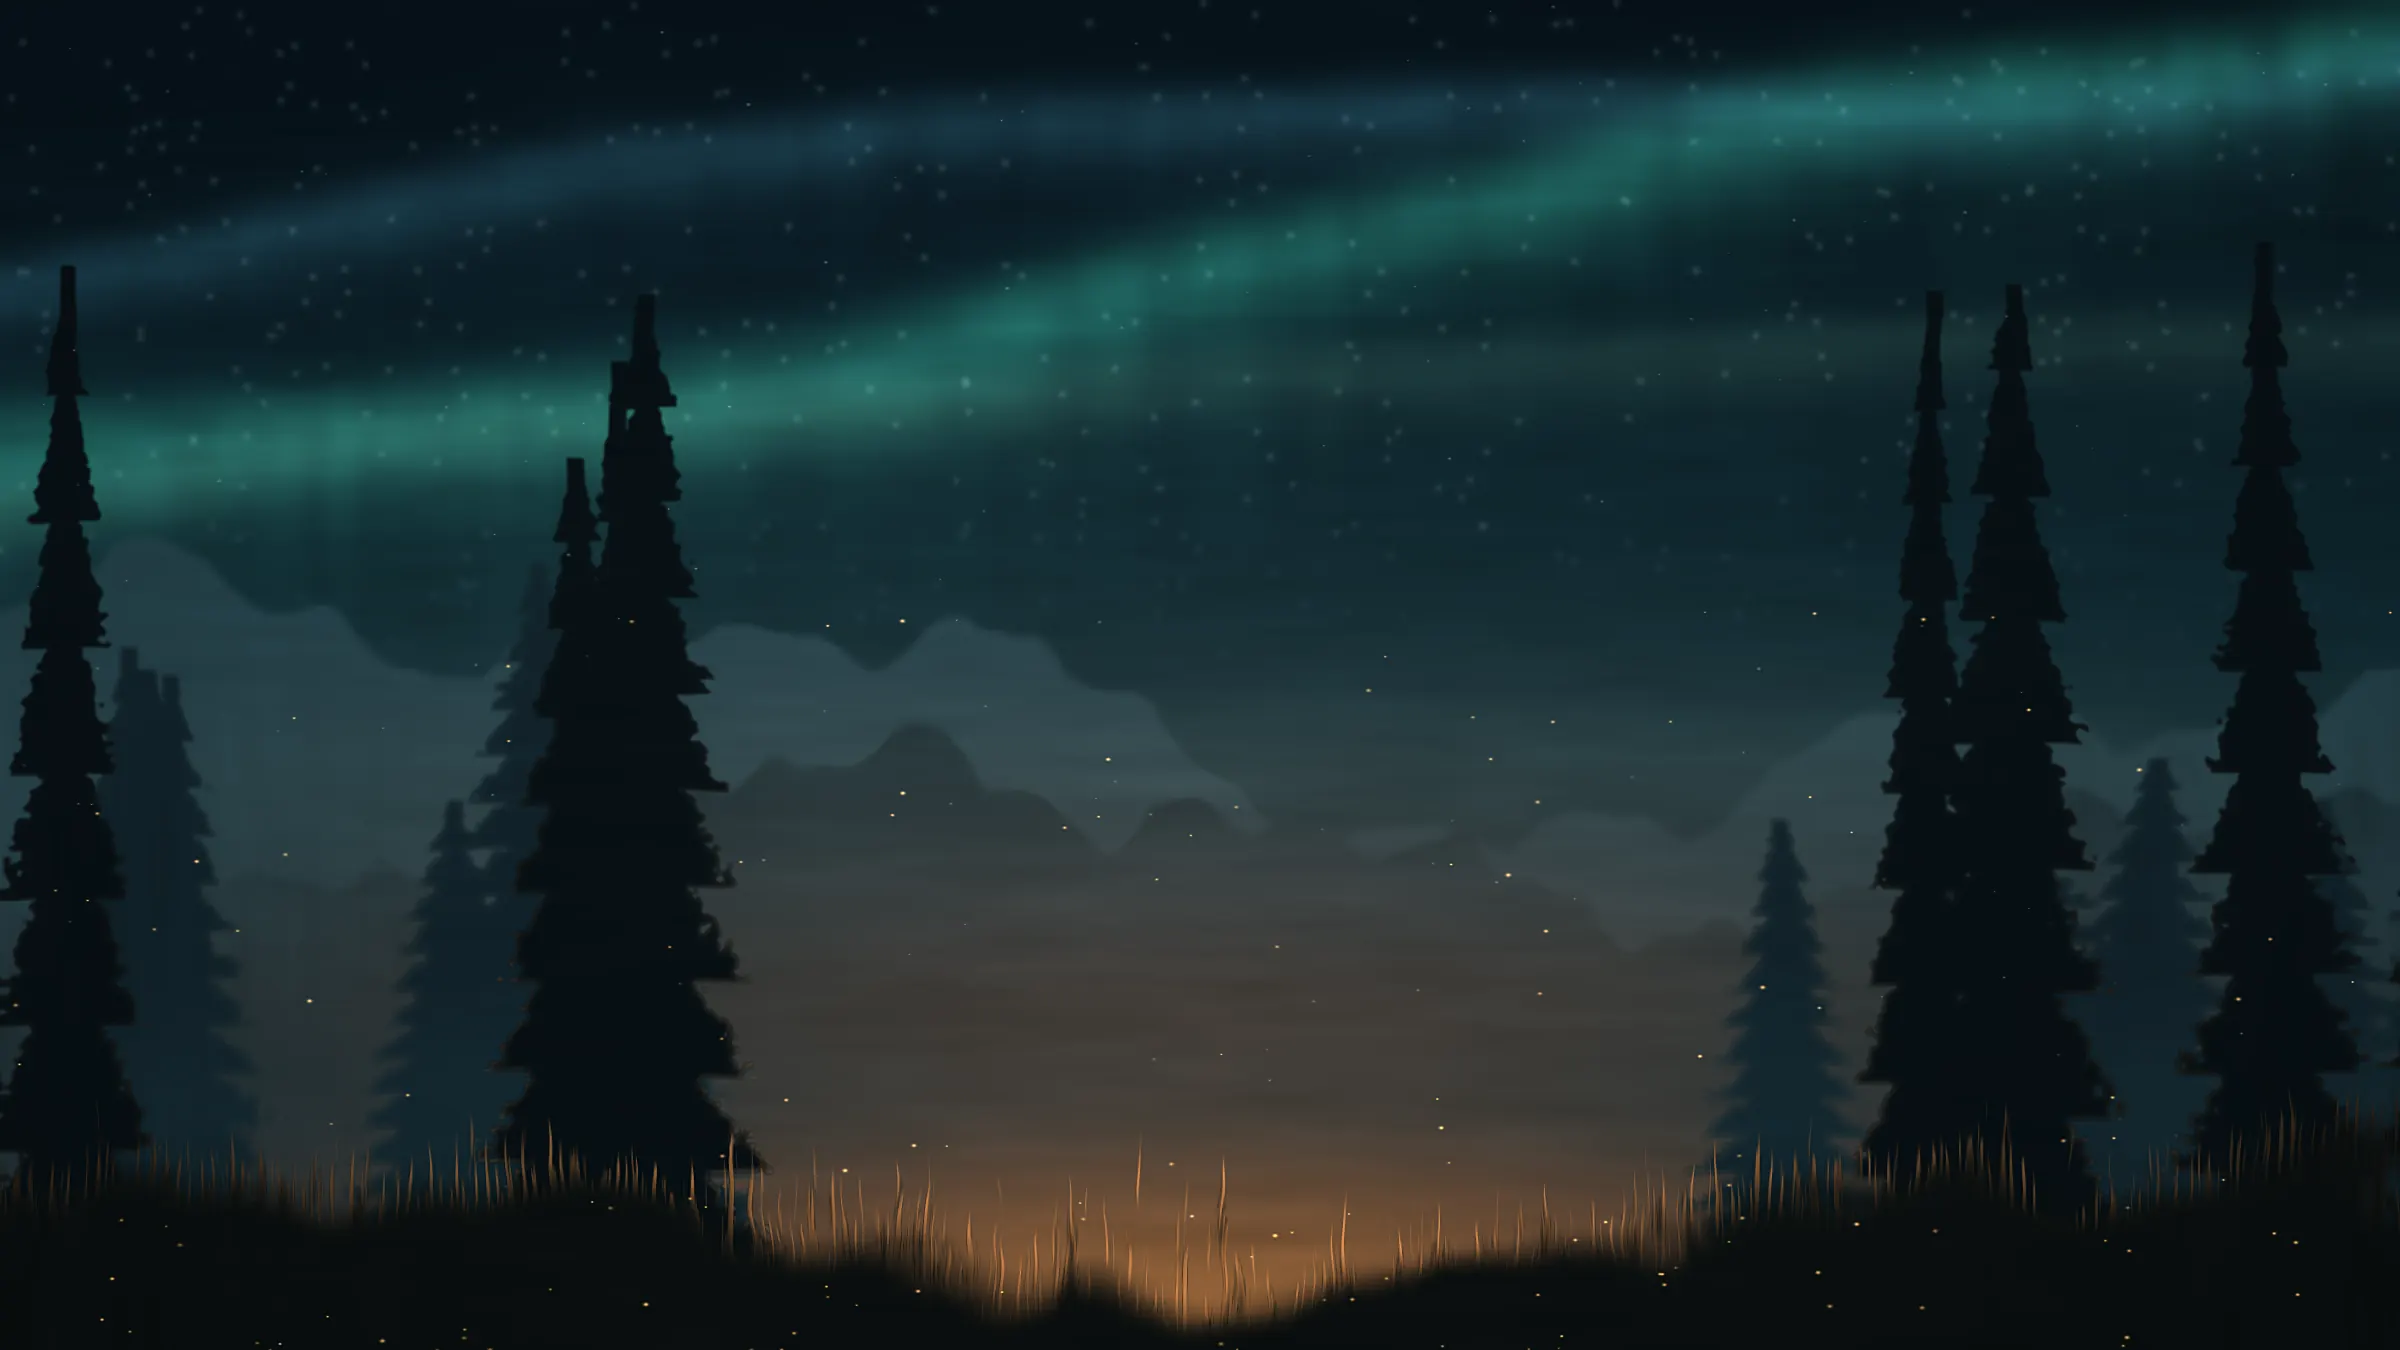
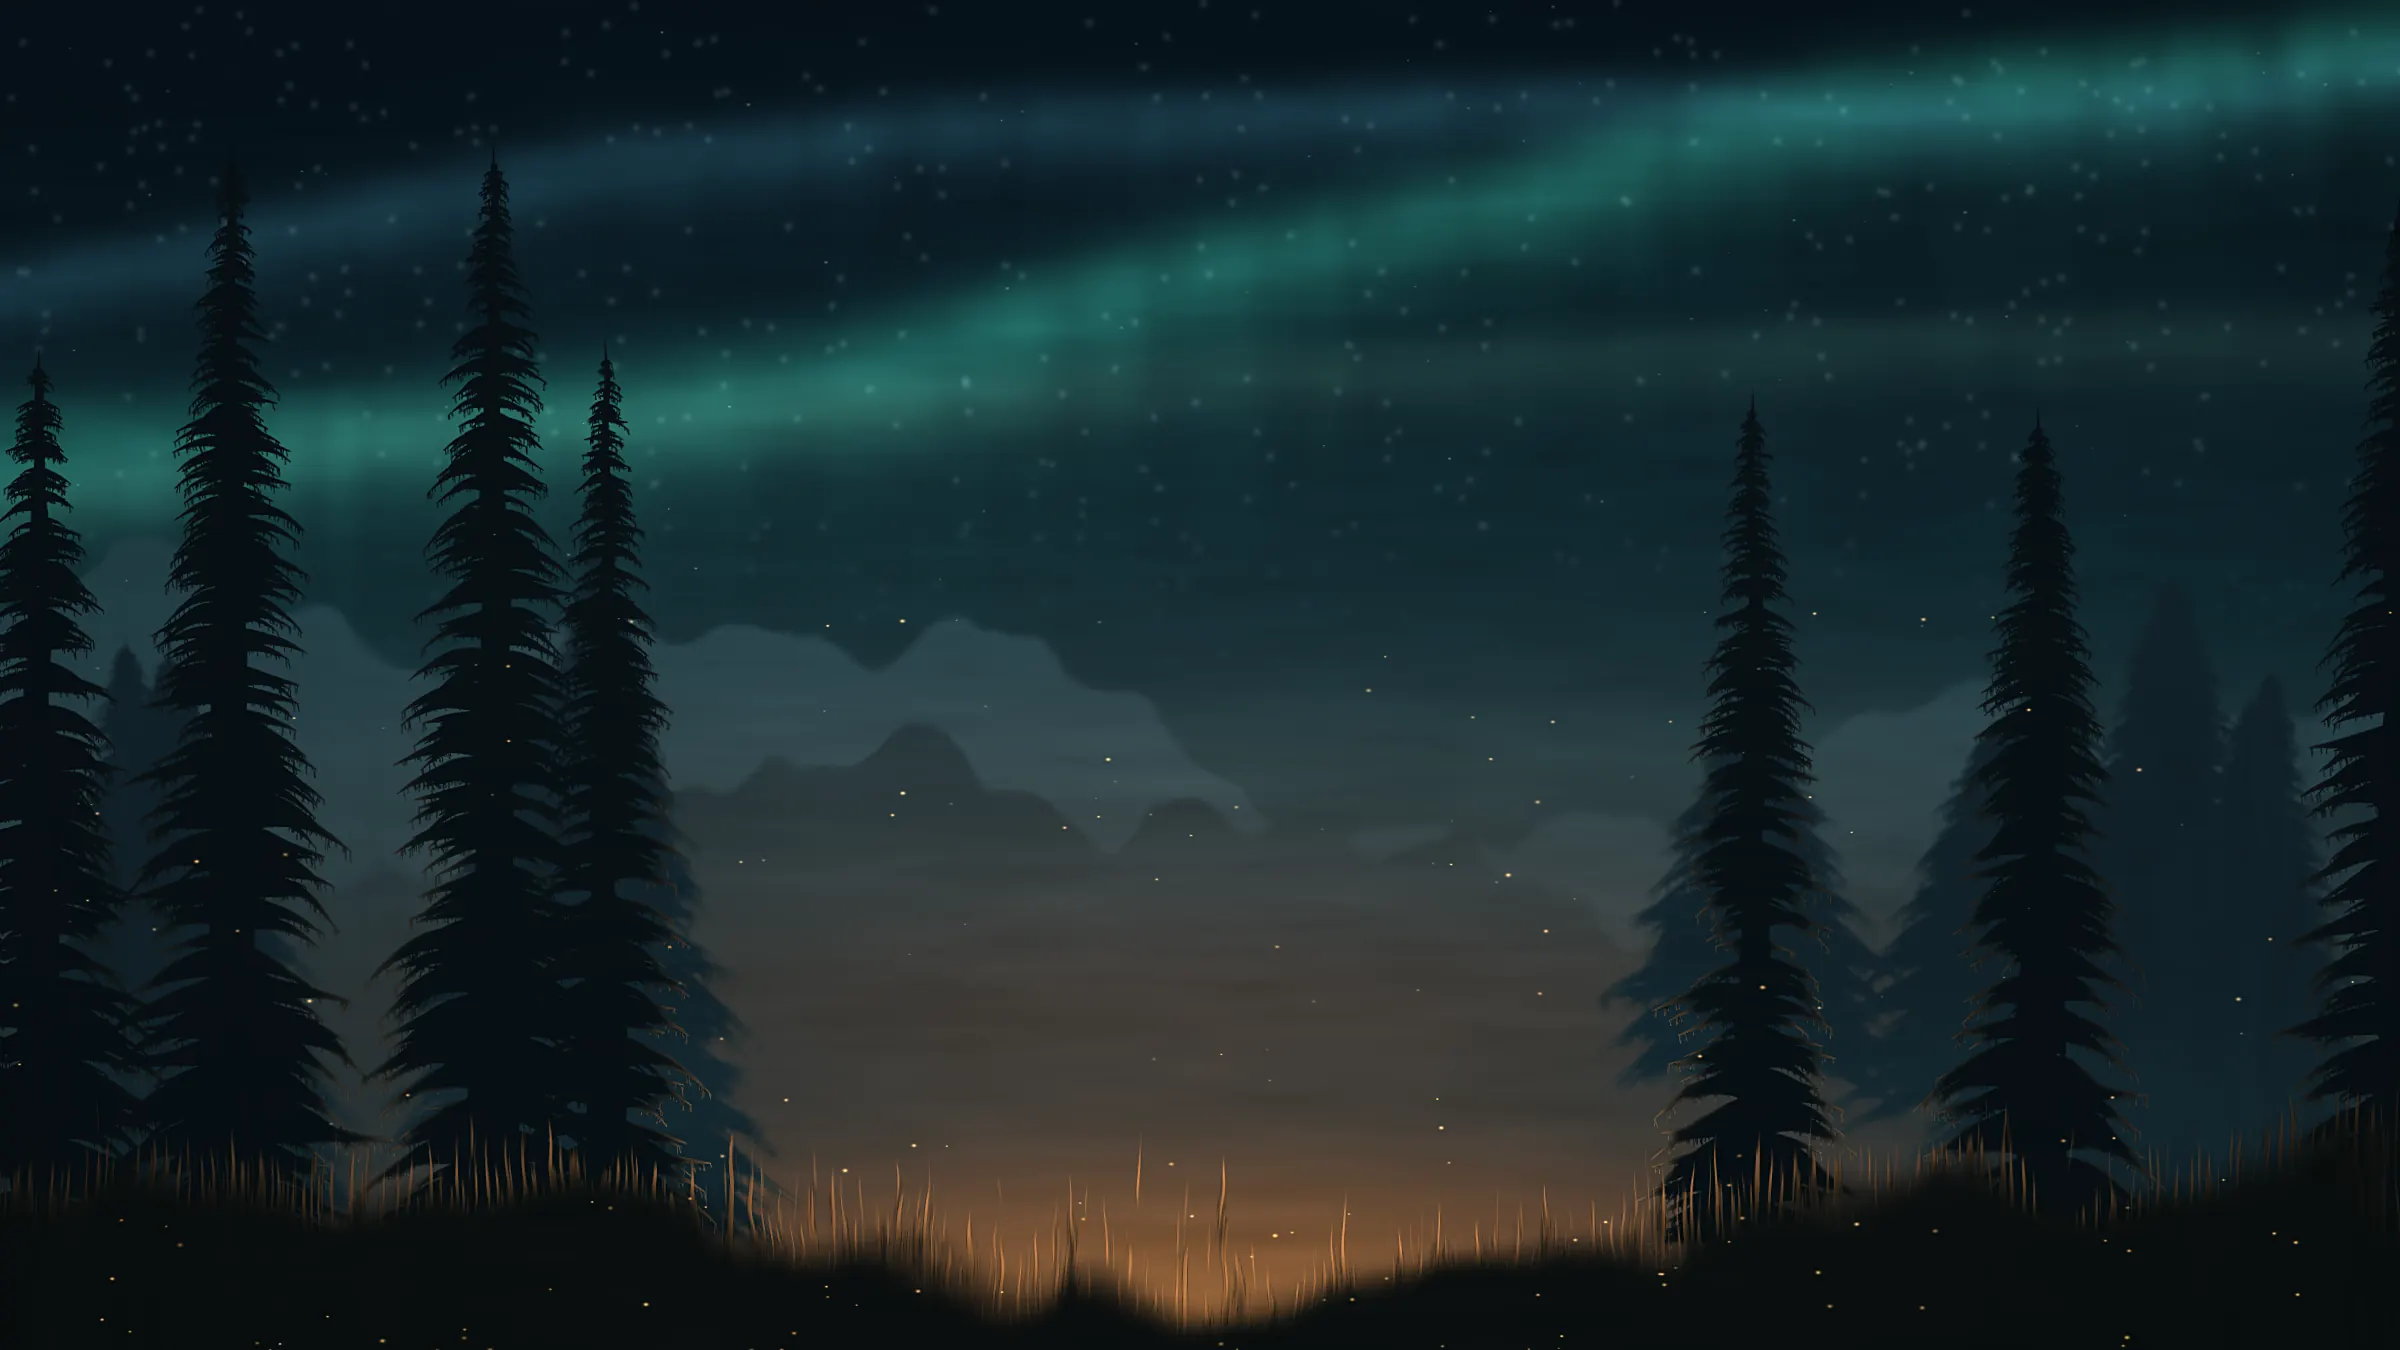
Backdrop: organic spruces with drooping branches instead of blocky tiers
Claude-Session: https://claude.ai/code/session_0182F3GpkQFxHJ4fHjpxRoPG

diff --git a/tools/backdrop/generate.py b/tools/backdrop/generate.py
@@ -101,44 +101,89 @@ img = mix(img, col('#b5552a'), glow * 0.6)
 img = mix(img, col('#ffa94d'), np.exp(-(((u - 0.5) / 0.2) ** 2 + ((v - 1.04) / 0.16) ** 2)) * 0.5)
 
 # ---------- pine forest framing the clearing ----------
-def pine(mask, x0, base, height, width, lean, seed):
+from PIL import ImageDraw
+
+SS = 2  # supersampling for smooth silhouettes
+
+
+def draw_pine(d, cx, base, height, width, seed):
+    """One spruce: a thin trunk with many drooping, tapered branches and ragged needle tips."""
     r = np.random.default_rng(seed)
+    cx, base, height, width = cx * W * SS, base * H * SS, height * H * SS, width * W * SS
     top = base - height
-    t = np.clip((v - top) / height, 0, 1)
-    tiers = 9 + r.integers(0, 5)
-    ph = (t * tiers + r.random()) % 1.0
-    # each tier: branch tips spread out then pull in, drooping
-    saw = 0.45 + 0.55 * ph ** 0.7
-    half = width * (0.04 + 0.96 * t ** 0.85) * saw
-    half *= 1 + 0.08 * noise(3, 1, seed)
-    cx = x0 + lean * (1 - t)
-    inside = (np.abs(u - cx) < half) & (v > top) & (v < base + 0.4)
-    trunk = (np.abs(u - cx) < 0.0035) & (v > top)
-    return np.maximum(mask, (inside | trunk).astype(np.float32))
+    d.line([(cx, top), (cx, base + 40)], fill=255, width=max(2, int(width * 0.05)))
+    # dense core so only the outer branch tips read as silhouette
+    core_l, core_r = [], []
+    for k in range(40):
+        t = k / 39
+        hw = width * 0.22 * (0.05 + 0.95 * t ** 0.85) * r.uniform(0.8, 1.0)
+        yk = top + t * height
+        core_l.append((cx - hw, yk)); core_r.append((cx + hw, yk))
+    d.polygon(core_l + core_r[::-1] + [(cx, top)], fill=255)
+    # branches grow in whorls: clusters at irregular heights
+    levels = []
+    y = 0.0
+    while y < 1.0:
+        y += r.uniform(0.008, 0.022) * (0.6 + y)
+        for _ in range(r.integers(3, 7)):
+            levels.append(min(1.0, y + r.normal(0, 0.006)))
+    for t in levels:
+        t = max(0.0, t)
+        y = top + t * height
+        reach = width * (0.06 + 0.94 * t ** 0.8) * r.uniform(0.55, 1.1)
+        if r.random() < 0.08 and t > 0.3:
+            reach *= 0.4                        # a broken or missing branch
+        for side in ((-1,) if r.random() < 0.5 else (1,)) if r.random() < 0.35 else (-1, 1):
+            L = reach * r.uniform(0.7, 1.15)
+            droop = L * r.uniform(0.12, 0.5)
+            lift = L * r.uniform(-0.05, 0.12)
+            # branch as a tapered curved polygon (quadratic bezier)
+            pts_top, pts_bot = [], []
+            th0 = max(2.5, L * 0.16)
+            for k in range(9):
+                q = k / 8
+                bx = cx + side * L * q
+                by = y - lift * 4 * q * (1 - q) + droop * q * q
+                th = th0 * (1 - q) + 1.0
+                pts_top.append((bx, by - th * 0.6))
+                pts_bot.append((bx, by + th))
+            d.polygon(pts_top + pts_bot[::-1], fill=255)
+            # needle clumps hanging along the branch
+            for k in range(int(r.integers(2, 5) + L / 12)):
+                q = r.uniform(0.25, 1.0)
+                bx = cx + side * L * q
+                by = y - lift * 4 * q * (1 - q) + droop * q * q
+                ln = r.uniform(3, 12) + L * r.uniform(0.02, 0.09)
+                ang = np.pi / 2 + side * r.uniform(-0.6, 0.2)
+                d.line([(bx, by), (bx + np.cos(ang) * ln * side * 0.4, by + np.sin(ang) * ln)], fill=255, width=2)
+    # leader at the very top
+    d.polygon([(cx - width * 0.03, top + height * 0.05), (cx, top - height * 0.02), (cx + width * 0.03, top + height * 0.05)], fill=255)
+
 
 def forest(side, n, seed, base_lo, base_hi, hmin, hmax, colour, rim, blur):
     global img
     r = np.random.default_rng(seed)
-    mask = np.zeros((H, W), np.float32)
+    m = Image.new('L', (W * SS, H * SS), 0)
+    d = ImageDraw.Draw(m)
     for i in range(n):
-        if side == 'L':
-            x0 = r.uniform(-0.04, 0.27) ** 1.0
-        else:
-            x0 = 1 - r.uniform(-0.04, 0.27)
-        mask = pine(mask, x0, r.uniform(base_lo, base_hi), r.uniform(hmin, hmax),
-                    r.uniform(0.035, 0.065), r.uniform(-0.01, 0.01), seed * 100 + i)
-    mask = gaussian_filter(mask, blur)
-    # warm rim light on edges facing the fire
-    edge = np.clip(mask - gaussian_filter(mask, 3), 0, 1) * 1.6
+        off = r.uniform(-0.03, 0.27)
+        x0 = off if side == 'L' else 1 - off
+        draw_pine(d, x0, r.uniform(base_lo, base_hi), r.uniform(hmin, hmax), r.uniform(0.045, 0.075), seed * 100 + i)
+    mask = np.asarray(m.resize((W, H), Image.LANCZOS), np.float32) / 255
+    if blur:
+        mask = gaussian_filter(mask, blur)
+    # warm rim light on the edges facing the fire
+    outer = gaussian_filter(mask, 9)
+    edge = np.clip(mask - gaussian_filter(mask, 2.5), 0, 1) * np.clip((0.75 - outer) * 3, 0, 1) * 1.6
     img = mix(img, colour, mask)
-    img += (edge * glow * 0.7)[..., None] * col(rim)
+    img += (edge * glow * 0.75)[..., None] * col(rim)
     return mask
 
-forest('L', 7, 41, 0.78, 0.92, 0.25, 0.42, col('#10222a'), '#ff9a4a', 2.2)
-forest('R', 7, 43, 0.78, 0.92, 0.25, 0.42, col('#10222a'), '#ff9a4a', 2.2)
+forest('L', 7, 41, 0.78, 0.92, 0.25, 0.42, col('#10222a'), '#ff9a4a', 1.6)
+forest('R', 7, 43, 0.78, 0.92, 0.25, 0.42, col('#10222a'), '#ff9a4a', 1.6)
 img = mix(img, col('#1a3640'), np.exp(-((v - 0.82) / 0.07) ** 2) * 0.35)  # low mist
-forest('L', 4, 51, 1.05, 1.15, 0.75, 1.0, col('#070f13'), '#ffb066', 1.2)
-forest('R', 4, 53, 1.05, 1.15, 0.75, 1.0, col('#070f13'), '#ffb066', 1.2)
+forest('L', 4, 51, 1.05, 1.15, 0.75, 1.0, col('#070f13'), '#ffb066', 0)
+forest('R', 4, 53, 1.05, 1.15, 0.75, 1.0, col('#070f13'), '#ffb066', 0)
 
 # ---------- foreground ferns / grass ----------
 gr = noise(3, 2, 61, aniso=(10, 0.5))
